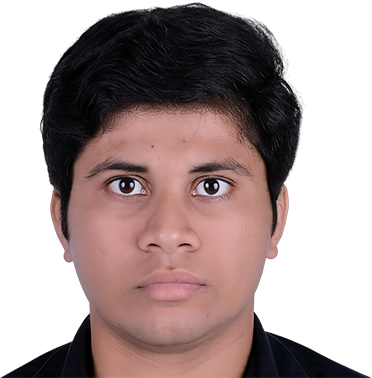
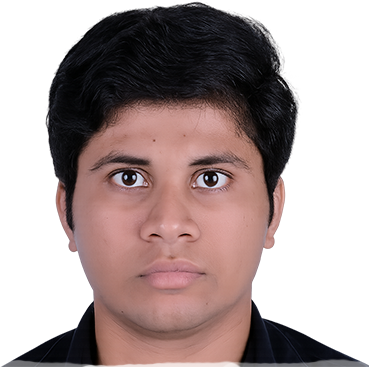
fix: some changes

diff --git a/apps/roypaportfolio/src/app/app.tsx b/apps/roypaportfolio/src/app/app.tsx
@@ -212,7 +212,7 @@ export default function Portfolio() {
                 <img
                   src={RoyImage}
                   alt="Developer"
-                  className="h-full object-cover rounded-2xl"
+                  className="h-full object-cover rounded-2xl lg:w-96 lg:h-96"
                 />
               </div>
             </div>
